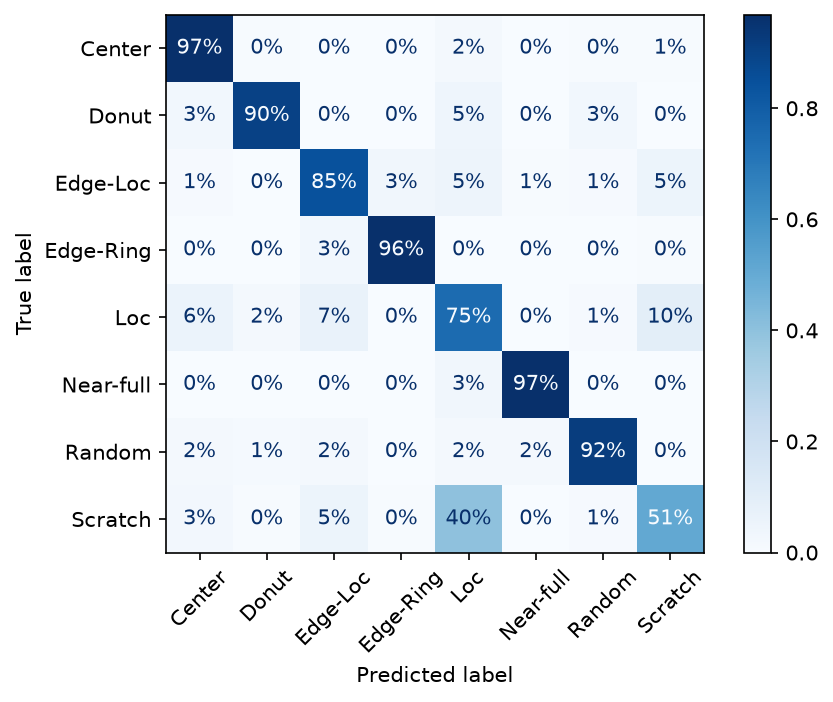
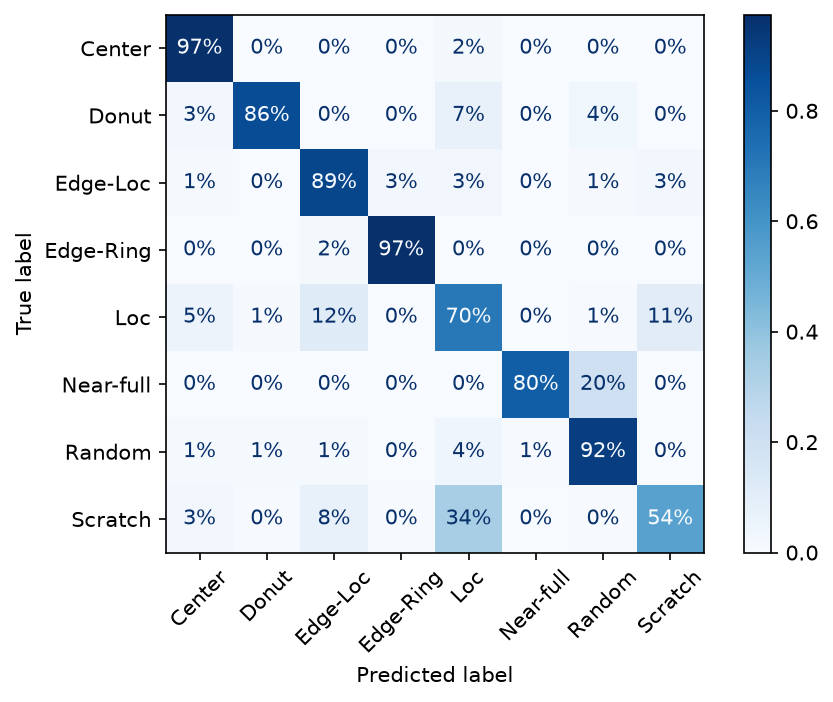
feat: Visualize Scratch<->Loc error by using Grad-CAM

diff --git a/notebooks/04_wafer_cnn.py b/notebooks/04_wafer_cnn.py
@@ -219,4 +219,87 @@ plt.tight_layout()
 plt.savefig("../docs/figures/wafer_cnn_confusion.png", dpi=150, bbox_inches="tight")
 plt.show()
 
+# %% [markdown]
+# ### 9. Grad-CAM 준비 - CNN 모델이 "어디를 보고 판단하는 지" 시각화하기.
+# Grad-CAM: Gradient-weighted Class Activation Mapping. 딥러닝 모델이 이미지의 어느 부분을 보고 판단을 내렸는 지 시각적으로 보여주는 AI 기법.
+
+# %%
+import tensorflow as tf
+
+# 네 번째(마지막) Conv2D 층 이름 탐색 (수동으로 이름을 부여하지 않았으나 Sequential이라서 이름이 자동 부여)
+last_conv_layer = [l for l in model.layers if isinstance(l, layers.Conv2D)][-1].name
+print("마지막 Conv2D 층:", last_conv_layer)
+
+# grad_model: 입력값(inp)을 넣으면 마지막 Conv2D 레이어의 출력 데이터와 최종 예측을 함께 반환하는 객체.
+inp = tf.keras.Input(shape=(IMG, IMG, 1))   # 64*64*1채널 웨이퍼 맵이 들어갈 입력 텐서 정의
+x = inp                                     # 임시 변수 x 정의
+conv_output = None                          # 빈 conv_output 정의
+for layer in model.layers:                  # 학습된 layer에 x 재통과
+    x = layer(x)                            
+    if layer.name == last_conv_layer:       # 마지막 Conv2D 레이어의 출력 데이터를 가로채 conv_output에 저장
+        conv_output = x
+grad_model = models.Model(inp, [conv_output, x])
+
+
+def make_gradcam_heatmap(img_array, grad_model, pred_index=None):
+    with tf.GradientTape() as tape:
+        conv_out, preds = grad_model(img_array)             # grad_model에 실제 img_array를 넣은 결과를 conv_out, preds에 저장
+        if pred_index is None:                              # pred_index가 없으면 예측 인덱스 사용
+            pred_index = tf.argmax(preds[0])
+        class_score = preds[:, pred_index]                  # 예측 인덱스의 확률값을 class_score에 저장
+
+    # 예측 점수에 대한 Conv2D 특징맵의 gradient
+    grads = tape.gradient(class_score, conv_out)            # class_score를 도출하는 데 사용된 마지막 출력 데이터(conv_out)의 픽셀 별 영향력(기울기)을 편미분하여 도출
+    # print("debug(grads): ", grads)
+    pooled_grads = tf.reduce_mean(grads, axis=(0, 1, 2))    # 픽셀 별 영향력의 공간적 평균을 내, 채널(8개) 마다 하나의 값으로 변환
+    # print("debug(pooled_grads): ", pooled_grads.shape)
+    conv_out = conv_out[0]                                  # (1, H, W, C) -> (H, W, C)
+    # print("debug(conv_out): ", conv_out)
+    heatmap = conv_out @ pooled_grads[..., tf.newaxis]      # 픽셀 별 영향력과 채널 단일 값(pooled_grads)를 행렬곱 -> 가능성이 높은 채널(불량 케이스)의 픽셀 정보가 증폭. -> (H, W, 1)
+    # print("debug(heatmap): ", heatmap)
+    heatmap = tf.squeeze(heatmap)                           # (H, W, 1) -> (H, W)
+    # print("debug(heatmap): ", heatmap)
+    heatmap = tf.maximum(heatmap, 0) / (tf.reduce_max(heatmap) + 1e-8) # 음수값 제거 및 0~1 정규화
+    # print("debug(heatmap): ", heatmap)
+    # print("debug(heatmap.numpy()): ", heatmap.numpy())
+    return heatmap.numpy()
+
+# %% [markdown]
+# ### 10. 원본 위에 히트맵을 겹쳐 시각화
+
+# %%
+# 전체 test 예측 한 번만 계산 (인덱스 선택 및 시각화에 재사용)
+y_pred_all = model.predict(X_test, verbose=0).argmax(axis=1)
+
+# 오분류 예시 인덱스 찾기: 실제 Scratch인데 Loc로 예측된 것
+# 해당 케이스 중, 앞 5개만 추출해서 보여준다.
+sc, lo = le.transform(["Scratch"])[0], le.transform(["Loc"])[0]
+confused = np.where((yi_test == sc) & (y_pred_all == lo))[0]
+print("Scratch -> Loc 오분류 예시 인덱스:", confused[:5])
+
+def show_gradcam(i, ax_map, ax_cam):
+    img = X_test[i:i+1]                                         # (1, 64, 64, 1)
+    heatmap = make_gradcam_heatmap(img, grad_model)
+
+    # 왼쪽: 원본 웨이퍼맵
+    ax_map.imshow(img[0, :, :, 0], cmap="gray")
+    ax_map.set_title(f"true: {le.classes_[yi_test[i]]}")
+    ax_map.axis("off")
+
+    # 오른쪽: 원본 웨이퍼맵 + 히트맵 (32 -> 64 자동 확대)
+    # jet: blue -> red. 빨간색일수록 AI가 판단에 더 참고한(활성화한) 부분이라는 뜻.
+    ax_cam.imshow(heatmap, cmap="jet", alpha=0.5, extent=(0, IMG, IMG, 0), interpolation="bilinear")
+    ax_cam.set_title(f"pred: {le.classes_[y_pred_all[i]]}")
+    ax_cam.axis("off")
+
+# 보고 싶은 test 인덱스 (원하는 인덱스로 변경 및 추가 가능)
+idxs = [confused[0], confused[3], confused[4]]
+fig, axes = plt.subplots(len(idxs), 2, figsize=(6, 3 * len(idxs)))
+for row, i in enumerate(np.atleast_1d(idxs)):
+    show_gradcam(i, axes[row, 0], axes[row, 1])
+
+plt.tight_layout()
+plt.savefig("../docs/figures/wafer_cnn_gradcam.png", dpi=150, bbox_inches="tight")
+plt.show()
+
 # %%

diff --git a/docs/devlog.md b/docs/devlog.md
@@ -127,3 +127,22 @@ Epoch 13/30
 
 [다음]
 - Scratch 개선 방법 확인 (데이터를 증강하거나 해상도를 높이거나)
+
+## 2026-08-22 - Grad-CAM (모델이 보는 근거 시각화)
+[한일]
+- 08/21에서 확인한 최대 약점 Scratch→Loc 오분류가 "왜" 일어나는지 Grad-CAM으로 확인.
+- 마지막 Conv2D(conv2d_3)의 특징맵을, 예측 클래스 점수에 대한 gradient로 가중합 → 어느 영역이 그 예측을 밀었는지 히트맵으로 시각화.
+- Scratch→Loc 오분류 test 인덱스 [27, 89, 108, 112, 149] 중 [0,3,4]번을 시각화. Scratch↔Edge-Loc 조합으로도 바꿔 돌려 재현성 확인.
+
+[결과/해석]
+- 세 사례 모두 히트맵이 노이즈가 아니라 **실제 스크래치 궤적**에 집중됨 → 모델은 결함 위치 자체는 옳게 짚음.
+- 다만 스크래치의 **국소 구간(짧고 뭉친 부분)**에 반응 → 선형 궤적을 "국소 덩어리(Loc)"로 해석. 즉 오류의 원인은 오작동이 아니라 **Scratch↔Loc의 형태적 경계 모호성**.
+- 공간적으로 비슷하다는 것의 **시각적 근거**가 됨. Grad-CAM이 도메인 해석을 뒷받침.
+![WM-811K CNN Grad-CAM (Scratch→Loc 오분류)](figures/wafer_cnn_gradcam.png)
+
+[트러블슈팅]
+- Keras 3의 Sequential은 내부 층의 .output 심볼릭 텐서가 없어 `Model(model.inputs, [layer.output, model.output])`가 "never been called"로 실패.
+  → 새 Input을 model.layers에 다시 통과시켜 (마지막 conv 출력, 최종 예측)을 뱉는 grad_model을 재구성하는 방식으로 해결(가중치 공유).
+
+[다음]
+- 경험기술서 2편 작성(양산기술 프레이밍) — Grad-CAM 그림을 ② AI 문제해결 근거로 사용.

diff --git a/README.md b/README.md
@@ -45,6 +45,10 @@
 
 ![WM-811K CNN confusion matrix (행 정규화)](docs/figures/wafer_cnn_confusion.png)
 
+- **Grad-CAM으로 오류 근거 검증**: Scratch→Loc 오분류 사례의 히트맵이 노이즈가 아니라 실제 스크래치 궤적에 집중 → 모델은 결함 위치를 옳게 짚되, 선형 궤적을 국소 덩어리(Loc)로 해석. 오류의 원인이 오작동이 아니라 **형태적 경계 모호성**임을 시각적으로 확인.
+
+![WM-811K CNN Grad-CAM (Scratch→Loc 오분류)](docs/figures/wafer_cnn_gradcam.png)
+
 ---
 
 ## 실행 (How to run)
